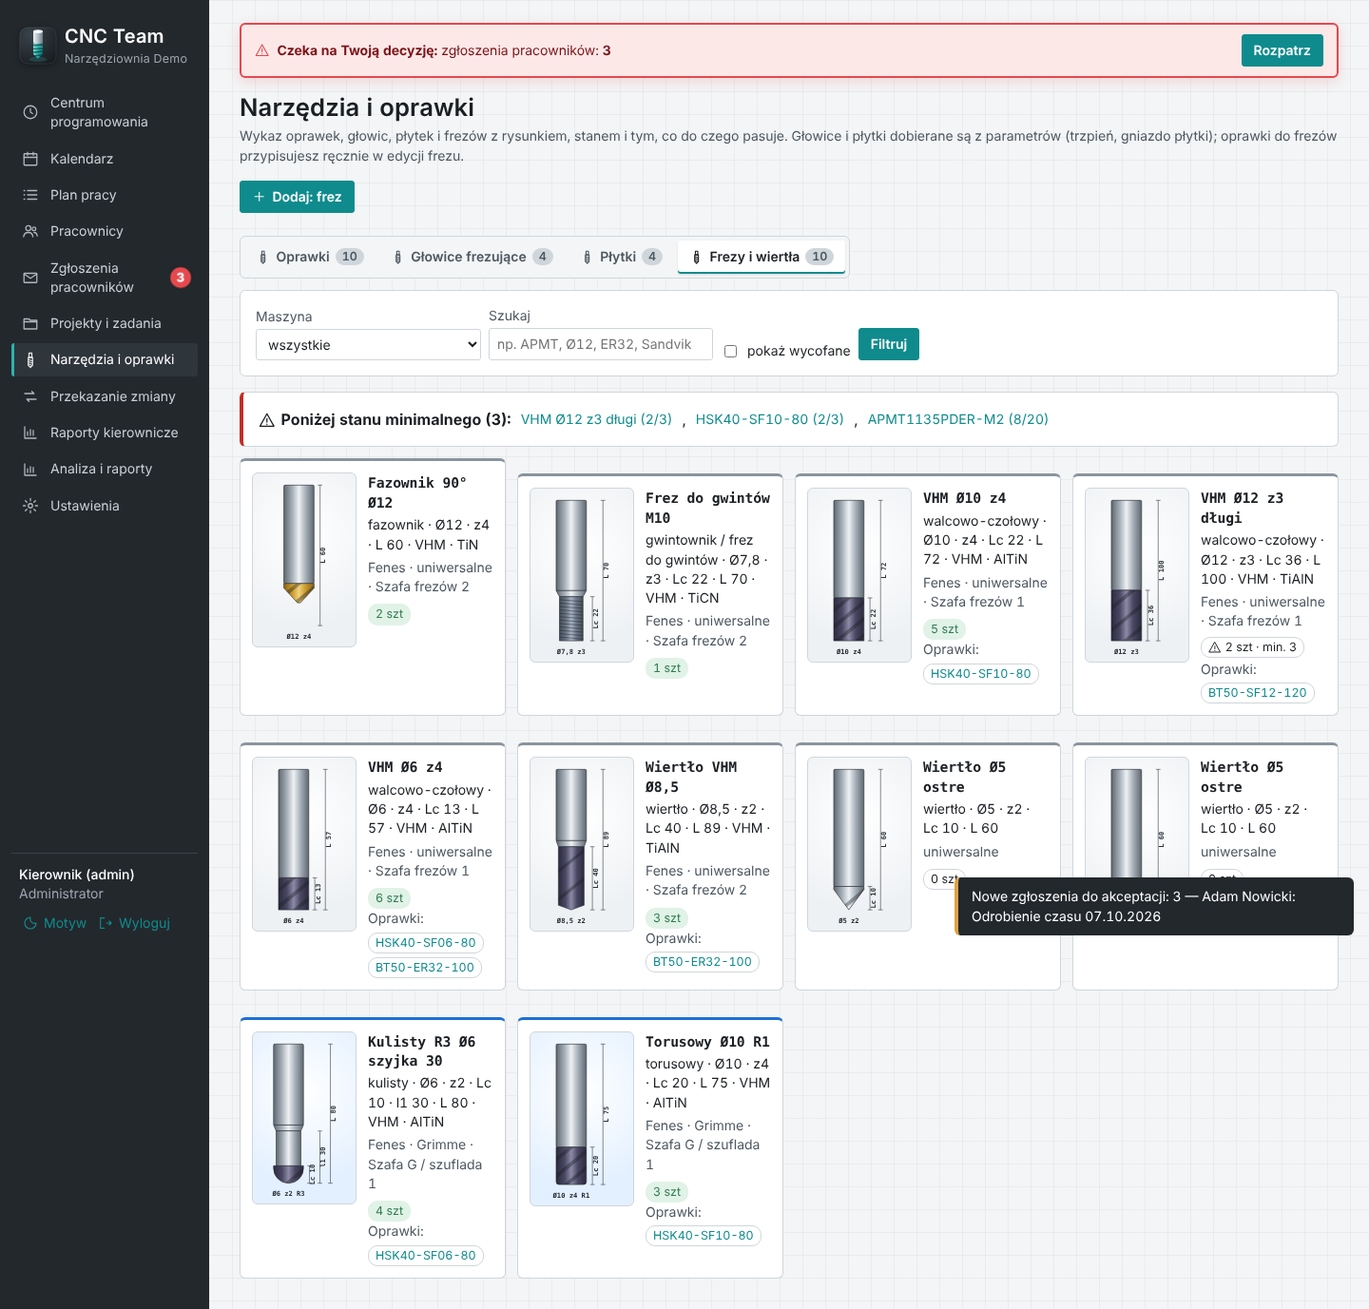
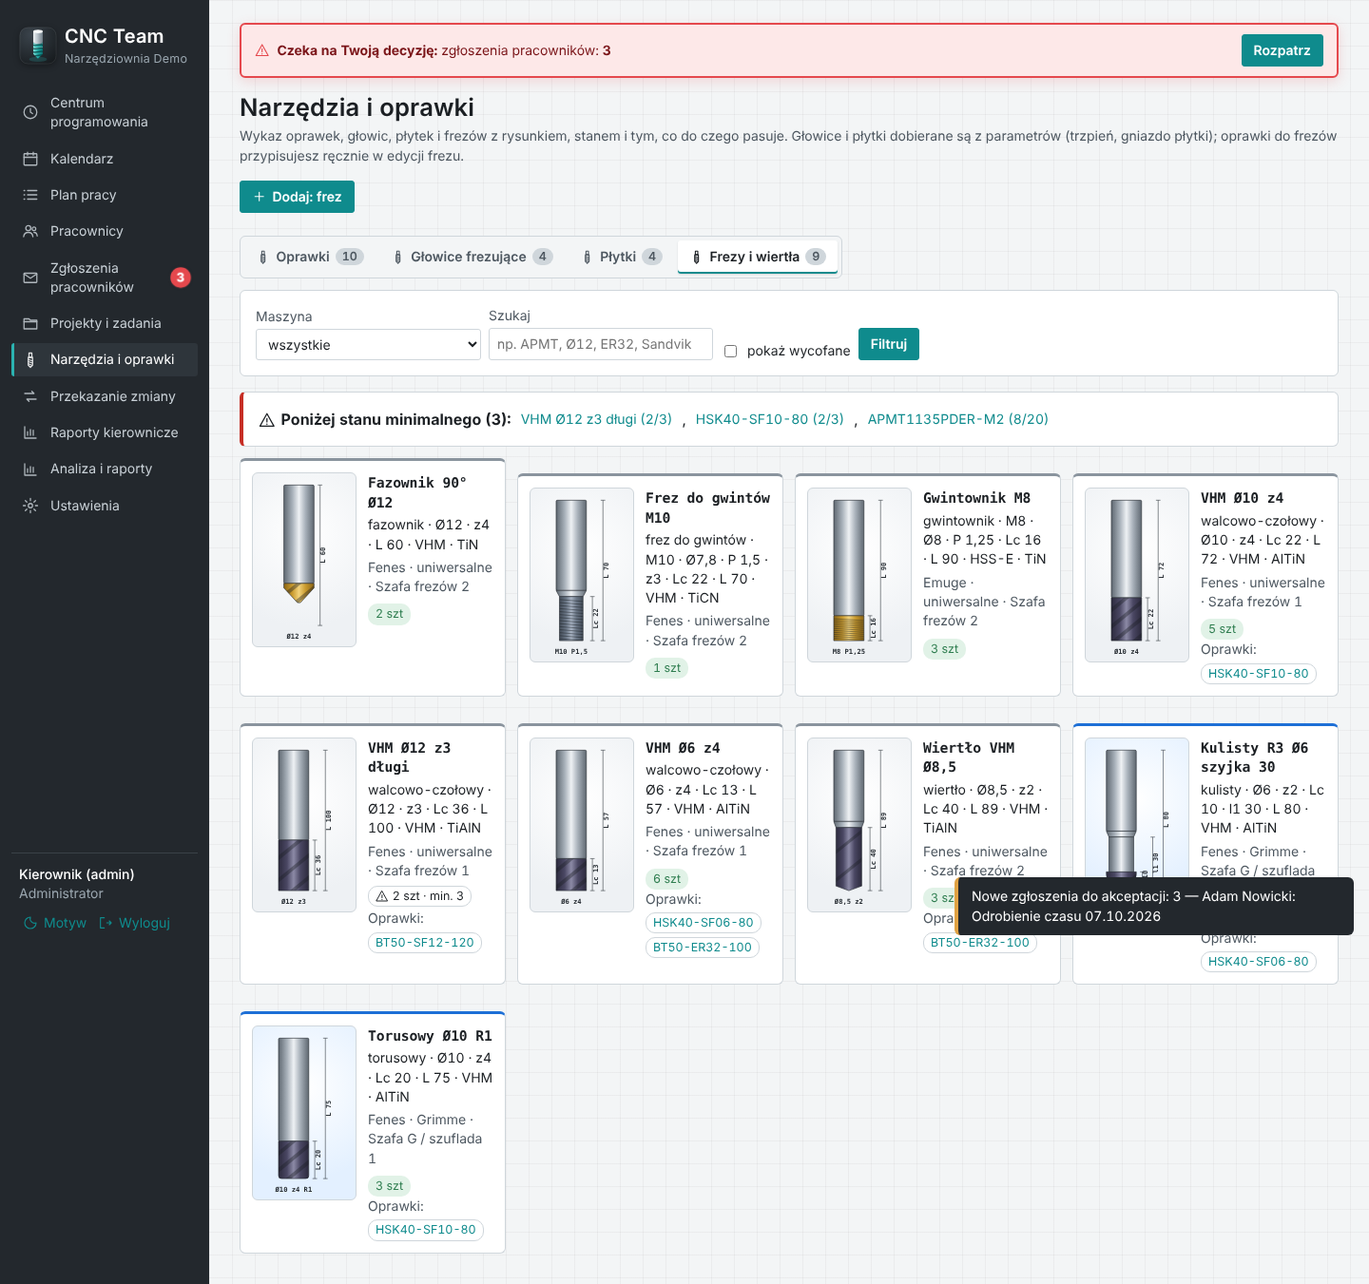
Gwintowniki bez liczby ostrzy, skok i oznaczenie gwintu; osobny rodzaj: frez do gwintów (0.15.3)
Claude-Session: https://claude.ai/code/session_01Mgo9RDb6yKEqWF3PSmGbbJ

diff --git a/public/views-tools.js b/public/views-tools.js
@@ -10,7 +10,8 @@ const TOOL_TABS = [
 ];
 const TOOL_KIND = Object.fromEntries(TOOL_TABS.map(([k, l, s]) => [k, { label: l, single: s }]));
 const HOLDER_LABEL = { tulejkowa: 'tulejkowa (ER)', weldon: 'Weldon', termo: 'termokurczliwa', hydrauliczna: 'hydrauliczna', trzpieniowa: 'trzpieniowa (do głowic)' };
-const MILL_LABEL = { 'walcowo-czolowy': 'walcowo-czołowy', kulisty: 'kulisty', torusowy: 'torusowy', fazownik: 'fazownik', wiertlo: 'wiertło', gwintownik: 'gwintownik / frez do gwintów' };
+const MILL_LABEL = { 'walcowo-czolowy': 'walcowo-czołowy', kulisty: 'kulisty', torusowy: 'torusowy', fazownik: 'fazownik', wiertlo: 'wiertło', gwintownik: 'gwintownik', 'frez-gwintowy': 'frez do gwintów' };
+const THREADED = (type) => type === 'gwintownik' || type === 'frez-gwintowy';
 const SHAPE_LABEL = { A: 'A — równoległobok 85°', C: 'C — romb 80°', D: 'D — romb 55°', R: 'R — okrągła', S: 'S — kwadrat', T: 'T — trójkąt', V: 'V — romb 35°', W: 'W — trygon 80°', O: 'O — ośmiokąt' };
 
 let toolUid = 0;
@@ -217,8 +218,9 @@ function drawMill(t, { w = 80 } = {}) {
   parts.push(`<clipPath id="${id}c"><path d="${end}"/></clipPath><path d="${end}" fill="url(#${id}k)" stroke="#2a3036" stroke-width=".8"/>`);
   // spirala ostrzy (ukośne pasy) albo zwoje gwintu
   const flutes = [];
-  if (p.type === 'gwintownik') {
-    for (let y = yCut + 4; y < yTip - 2; y += 4.5) flutes.push(`<path d="M${L} ${y} L${R} ${y + 2.5}" stroke="#1b1f23" stroke-width="1" opacity=".55"/>`);
+  if (THREADED(p.type)) {
+    const step = Math.max(2.5, Math.min(8, (Number(p.pitch) || 1.5) * sc));
+    for (let y = yCut + 4; y < yTip - 2; y += step) flutes.push(`<path d="M${L} ${y} L${R} ${y + 2.5}" stroke="#1b1f23" stroke-width="1" opacity=".55"/>`);
   } else {
     const n = Math.max(2, Math.round(p.z || 3)); const step = Math.max(9, wd * 1.1);
     for (let y = yCut - wd; y < yTip + wd; y += step / Math.min(n, 4) * 2) flutes.push(`<path d="M${L - 2} ${y + wd * 0.9} L${R + 2} ${y}" stroke="#1b1f23" stroke-width="${Math.max(1.5, wd * 0.12)}" opacity=".38" stroke-linecap="round"/>`);
@@ -233,10 +235,10 @@ function drawMill(t, { w = 80 } = {}) {
   if (neck) dims.push(dim(68 + (p.Lc ? 14 : 0), yNeck, yTip, `l1 ${mm(p.reach)}`));
   if (p.L) dims.push(dim(68 + (p.Lc ? 14 : 0) + (neck ? 14 : 0), yShank, yTip, `L ${mm(p.L)}`));
   const vw = 80 + (p.Lc ? 14 : 0) + (neck ? 14 : 0) + (p.L ? 14 : 0);
-  return `<svg class="tool-svg" viewBox="0 0 ${vw} 214" width="${Math.round(w * vw / 80)}" role="img" aria-label="${esc(`${MILL_LABEL[p.type] || 'Frez'} Ø${mm(D)}${p.z ? ` z${mm(p.z)}` : ''}${p.Lc ? `, ostrze ${mm(p.Lc)} mm` : ''}${p.L ? `, długość ${mm(p.L)} mm` : ''}`)}">
+  return `<svg class="tool-svg" viewBox="0 0 ${vw} 214" width="${Math.round(w * vw / 80)}" role="img" aria-label="${esc(`${MILL_LABEL[p.type] || 'Frez'}${p.thread ? ` ${p.thread}` : ''}${p.pitch ? ` skok ${mm(p.pitch)}` : ''} Ø${mm(D)}${p.z && p.type !== 'gwintownik' ? ` z${mm(p.z)}` : ''}${p.Lc ? `, ostrze ${mm(p.Lc)} mm` : ''}${p.L ? `, długość ${mm(p.L)} mm` : ''}`)}">
     <defs>${metalDefs(`${id}s`, shankTone)}${metalDefs(`${id}k`, coatTone(p.coating))}</defs>
     ${parts.join('')}${dims.join('')}
-    <text x="40" y="211" text-anchor="middle" class="tool-svg-dim">Ø${esc(mm(D))}${p.z ? ` z${esc(mm(p.z))}` : ''}${p.type === 'torusowy' && p.r ? ` R${esc(mm(p.r))}` : p.type === 'kulisty' ? ` R${esc(mm(D / 2))}` : ''}</text>
+    <text x="40" y="211" text-anchor="middle" class="tool-svg-dim">${THREADED(p.type) ? `${esc(p.thread || `Ø${mm(D)}`)}${p.pitch ? ` P${esc(mm(p.pitch))}` : ''}` : `Ø${esc(mm(D))}`}${p.z && !THREADED(p.type) ? ` z${esc(mm(p.z))}` : ''}${p.type === 'torusowy' && p.r ? ` R${esc(mm(p.r))}` : p.type === 'kulisty' ? ` R${esc(mm(D / 2))}` : ''}</text>
   </svg>`;
 }
 
@@ -260,7 +262,7 @@ function toolFacts(t) {
     add('Kształt', SHAPE_LABEL[p.shape] || p.shape); add('Wielkość', p.size, ' mm'); add('Promień naroża', p.radius, ' mm'); add('Liczba krawędzi', p.edges);
     add('Gatunek', p.grade); add('Pokrycie', p.coating); add('Materiały', p.materials);
   } else {
-    add('Rodzaj', MILL_LABEL[p.type] || p.type); add('Średnica D', p.D, ' mm'); add('Liczba ostrzy z', p.z); add('Chwyt', p.shank != null ? `Ø${mm(p.shank)}` : null, ' mm');
+    add('Rodzaj', MILL_LABEL[p.type] || p.type); add('Średnica D', p.D, ' mm'); add('Gwint', p.thread); add('Skok gwintu P', p.pitch, ' mm'); if (p.type !== 'gwintownik') add('Liczba ostrzy z', p.z); add('Chwyt', p.shank != null ? `Ø${mm(p.shank)}` : null, ' mm');
     add('Długość ostrza Lc', p.Lc, ' mm'); add('Długość użyteczna l1', p.reach, ' mm'); add('Długość całkowita L', p.L, ' mm'); add('Promień naroża', p.r, ' mm'); add('Kąt', p.angle, '°');
     add('Materiał', p.material); add('Pokrycie', p.coating);
   }
@@ -271,7 +273,7 @@ function toolKeyLine(t) {
   if (t.kind === 'oprawka') return [p.interface, HOLDER_LABEL[p.type], p.type === 'trzpieniowa' ? `trzpień Ø${mm(p.arbor)}` : p.clamp_min != null ? `Ø${mm(p.clamp_min)}${p.clamp_max && p.clamp_max !== p.clamp_min ? `–${mm(p.clamp_max)}` : ''}` : null].filter(Boolean).join(' · ');
   if (t.kind === 'glowica') return [`Ø${mm(p.D)}`, `z${mm(p.z)}`, p.insert_code, p.lead && p.lead !== 90 ? `${mm(p.lead)}°` : null].filter(Boolean).join(' · ');
   if (t.kind === 'plytka') return [p.grade, p.coating, p.materials ? `materiały ${p.materials}` : null].filter(Boolean).join(' · ');
-  return [MILL_LABEL[p.type], `Ø${mm(p.D)}`, p.z ? `z${mm(p.z)}` : null, p.Lc ? `Lc ${mm(p.Lc)}` : null, p.reach ? `l1 ${mm(p.reach)}` : null, p.L ? `L ${mm(p.L)}` : null, p.material, p.coating].filter(Boolean).join(' · ');
+  return [MILL_LABEL[p.type], p.thread || null, `Ø${mm(p.D)}`, p.pitch ? `P ${mm(p.pitch)}` : null, p.z && p.type !== 'gwintownik' ? `z${mm(p.z)}` : null, p.Lc ? `Lc ${mm(p.Lc)}` : null, p.reach ? `l1 ${mm(p.reach)}` : null, p.L ? `L ${mm(p.L)}` : null, p.material, p.coating].filter(Boolean).join(' · ');
 }
 function machineShort(id) {
   const m = S.boot.machines.find(x => x.id === id);
@@ -421,8 +423,10 @@ function toolForm(kind, t = null, all = []) {
       txt('grade', 'Gatunek'), txt('coating', 'Pokrycie', { help: 'np. TiAlN, TiN, PVD' }), txt('materials', 'Materiały', { help: 'P / M / K / N / S / H' })];
   } else {
     params = [{ name: 'p_type', label: 'Rodzaj', type: 'select', required: true, value: p.type || '', options: Object.entries(MILL_LABEL) },
-      num('D', 'Średnica D (mm)', { required: true }), num('z', 'Liczba ostrzy z', { required: true }), num('shank', 'Chwyt Ø (mm)', { help: 'puste = jak D' }),
-      num('Lc', 'Długość ostrza Lc (mm)', { required: true, show: v => v.p_type !== 'fazownik', help: 'część skrawająca' }),
+      num('D', 'Średnica D (mm)', { required: true }), num('z', 'Liczba ostrzy z', { required: true, show: v => v.p_type !== 'gwintownik' }), num('shank', 'Chwyt Ø (mm)', { help: 'puste = jak D' }),
+      num('pitch', 'Skok gwintu P (mm)', { required: true, show: v => THREADED(v.p_type), help: 'np. M10 → 1,5; M10x1 → 1' }),
+      txt('thread', 'Oznaczenie gwintu', { show: v => THREADED(v.p_type), help: 'np. M10, M10x1, G1/4, UNC 1/4-20' }),
+      num('Lc', 'Długość ostrza Lc (mm)', { required: true, show: v => v.p_type !== 'fazownik', help: 'część skrawająca; przy gwintowniku — długość gwintu' }),
       num('reach', 'Długość użyteczna l1 (mm)', { show: v => v.p_type !== 'fazownik', help: 'ostrze + szyjka (frez z podciętą szyjką); puste = jak Lc' }),
       num('L', 'Długość całkowita L (mm)', { required: true }),
       num('r', 'Promień naroża r (mm)', { show: v => v.p_type === 'torusowy' }), num('angle', 'Kąt (°)', { show: v => v.p_type === 'fazownik' || v.p_type === 'wiertlo' }),

diff --git a/server/domain/tools.js b/server/domain/tools.js
@@ -8,15 +8,17 @@ const { bad, notFound, audit, reqStr, reqInt, oneOf } = require('../core');
 
 const KINDS = ['oprawka', 'glowica', 'plytka', 'frez'];
 const HOLDER_TYPES = ['tulejkowa', 'weldon', 'termo', 'hydrauliczna', 'trzpieniowa'];
-const MILL_TYPES = ['walcowo-czolowy', 'kulisty', 'torusowy', 'fazownik', 'wiertlo', 'gwintownik'];
+const MILL_TYPES = ['walcowo-czolowy', 'kulisty', 'torusowy', 'fazownik', 'wiertlo', 'gwintownik', 'frez-gwintowy'];
+const THREAD_TYPES = ['gwintownik', 'frez-gwintowy'];
 const SHAPES = ['A', 'C', 'D', 'R', 'S', 'T', 'V', 'W', 'O'];
 
-const num = (v, label, { min = 0, max = 2000, optional = true, int = false } = {}) => {
+const num = (v, label, { min = 0, max = 2000, optional = true, int = false, decimals = 2 } = {}) => {
   if (v === undefined || v === null || v === '') { if (optional) return null; throw bad(`Podaj: ${label}.`); }
   const n = Number(String(v).replace(',', '.'));
   if (!Number.isFinite(n) || n < min || n > max) throw bad(`${label}: wartość ${min}–${max}.`);
   if (int && !Number.isInteger(n)) throw bad(`${label}: liczba całkowita.`);
-  return Math.round(n * 100) / 100;
+  const f = 10 ** decimals;
+  return Math.round(n * f) / f;
 };
 // BT50, HSK40, HSK-A40 → porównywalna postać
 const normIface = (v) => String(v || '').toUpperCase().replace(/[^A-Z0-9]/g, '').replace(/^HSK[A-F](?=\d)/, 'HSK');
@@ -49,7 +51,12 @@ function normParams(kind, p = {}) {
   const r = type === 'torusowy' ? num(p.r, 'Promień naroża r (mm)', { max: 50 }) : null; // kulisty: r = D/2 z definicji
   if (r !== null && r > D / 2) throw bad('Promień naroża nie może być większy niż połowa średnicy.');
   // dane definiujące narzędzie: liczba ostrzy, długość ostrza (części skrawającej) i długość całkowita — obowiązkowe
-  const z = num(p.z, 'Liczba ostrzy z', { min: 1, max: 20, int: true, optional: false });
+  // gwintownik: bez liczby ostrzy; gwintownik i frez do gwintów: skok gwintu obowiązkowy
+  const z = type === 'gwintownik' ? null : num(p.z, 'Liczba ostrzy z', { min: 1, max: 20, int: true, optional: false });
+  const threaded = THREAD_TYPES.includes(type);
+  // skok z 4 miejscami po przecinku — gwinty calowe (np. 13 TPI = 1,9538 mm)
+  const pitch = threaded ? num(p.pitch, 'Skok gwintu P (mm)', { min: 0.1, max: 12, optional: false, decimals: 4 }) : null;
+  const thread = threaded ? txt(p.thread, 'Oznaczenie gwintu (np. M10, M10x1, G1/4)', 30) : null;
   const L = num(p.L, 'Długość całkowita L (mm)', { min: 1, max: 500, optional: false });
   const Lc = num(p.Lc, 'Długość ostrza Lc (mm)', { min: 0.1, max: 300, optional: type === 'fazownik' });
   const reach = type === 'fazownik' ? null : num(p.reach, 'Długość użyteczna l1 (mm)', { min: 0.1, max: 500 });
@@ -57,7 +64,7 @@ function normParams(kind, p = {}) {
   if (reach !== null && reach > L) throw bad('Długość użyteczna nie może być większa niż długość całkowita.');
   if (reach !== null && Lc !== null && reach < Lc) throw bad('Długość użyteczna (z szyjką) nie może być krótsza niż długość ostrza.');
   return {
-    type, D, z, shank: num(p.shank, 'Chwyt Ø (mm)', { min: 1, max: 50 }), Lc, reach, L,
+    type, D, z, pitch, thread, shank: num(p.shank, 'Chwyt Ø (mm)', { min: 1, max: 50 }), Lc, reach, L,
     r, angle: type === 'fazownik' || type === 'wiertlo' ? num(p.angle, 'Kąt (fazownik / wiertło, °)', { min: 30, max: 180 }) : null,
     material: txt(p.material, 'Materiał (VHM, HSS…)', 20), coating: txt(p.coating, 'Pokrycie', 30),
   };

diff --git a/test/tools.test.js b/test/tools.test.js
@@ -132,6 +132,31 @@ test('narzędzia: ręczne przypisanie frezu do oprawek (w obie strony, w histori
   throwsStatus(assert, () => Tools.saveTool(w.db, w.admin, { holder_ids: [w.ids.er32] }, w.ids.head63), 400, /tylko do frezów/);
 });
 
+test('narzędzia: gwintownik bez liczby ostrzy, ze skokiem gwintu; frez do gwintów — ostrza i skok', () => {
+  const w = world();
+  const save = (params) => Tools.saveTool(w.db, w.admin, { kind: 'frez', name: 'G', params: { D: 10, Lc: 20, L: 90, ...params } }).id;
+  const pr = (id) => JSON.parse(w.db.get('SELECT params FROM tools WHERE id=?', id).params);
+  throwsStatus(assert, () => save({ type: 'gwintownik' }), 400, /Skok gwintu/);
+  throwsStatus(assert, () => save({ type: 'gwintownik', pitch: 0 }), 400, /Skok gwintu/);
+  const tap = save({ type: 'gwintownik', pitch: '1,5', thread: 'M10', z: 4 });
+  assert.equal(pr(tap).pitch, 1.5); assert.equal(pr(tap).thread, 'M10');
+  assert.equal(pr(tap).z, null, 'liczba ostrzy nie jest zapisywana przy gwintowniku');
+  throwsStatus(assert, () => save({ type: 'frez-gwintowy', pitch: 1.5 }), 400, /ostrzy/);
+  throwsStatus(assert, () => save({ type: 'frez-gwintowy', z: 3 }), 400, /Skok gwintu/);
+  const tm = save({ type: 'frez-gwintowy', z: 3, pitch: 1.5, thread: 'M10' });
+  assert.deepEqual([pr(tm).z, pr(tm).pitch], [3, 1.5]);
+  assert.equal(pr(save({ type: 'gwintownik', pitch: 1.95380 })).pitch, 1.9538, 'skok calowy z 4 miejscami');
+  // migracja 014: dawny „gwintownik / frez do gwintów” z liczbą ostrzy → frez do gwintów; gwintownik bez ostrzy bez zmian
+  const now = new Date().toISOString();
+  const ins = (params) => Number(w.db.run(`INSERT INTO tools(kind,name,params,created_at,updated_at) VALUES ('frez','dawny',?,?,?)`, JSON.stringify(params), now, now).lastInsertRowid);
+  const oldMill = ins({ type: 'gwintownik', D: 7.8, z: 3 }), oldTap = ins({ type: 'gwintownik', D: 8, z: null });
+  w.db.exec(require('fs').readFileSync(require('path').join(__dirname, '../server/migrations/014_thread_mills.sql'), 'utf8'));
+  assert.equal(pr(oldMill).type, 'frez-gwintowy'); assert.equal(pr(oldTap).type, 'gwintownik');
+  // inne frezy nie mają skoku ani oznaczenia gwintu
+  const em = save({ type: 'walcowo-czolowy', z: 4, pitch: 1.5, thread: 'M10' });
+  assert.equal(pr(em).pitch, null); assert.equal(pr(em).thread, null);
+});
+
 test('narzędzia: przyjęcie / wydanie z powodem w historii, stan nie ujemny, wycofanie wymaga powodu', () => {
   const w = world();
   throwsStatus(assert, () => Tools.adjustStock(w.db, w.admin, w.ids.apmt11, { delta: 10 }), 400, /Powód/);

diff --git a/scripts/seed-lib.js b/scripts/seed-lib.js
@@ -275,7 +275,8 @@ function seedTools(db, admin) {
   add('frez', 'Torusowy Ø10 R1', G, { type: 'torusowy', D: 10, z: 4, shank: 10, Lc: 20, L: 75, r: 1, material: 'VHM', coating: 'AlTiN' }, { qty: 3, min_qty: 2, manufacturer: 'Fenes', location: 'Szafa G / szuflada 1' });
   add('frez', 'Fazownik 90° Ø12', null, { type: 'fazownik', D: 12, z: 4, shank: 12, L: 60, angle: 90, material: 'VHM', coating: 'TiN' }, { qty: 2, min_qty: 1, manufacturer: 'Fenes', location: 'Szafa frezów 2' });
   add('frez', 'Wiertło VHM Ø8,5', null, { type: 'wiertlo', D: 8.5, z: 2, shank: 10, Lc: 40, L: 89, angle: 140, material: 'VHM', coating: 'TiAlN' }, { qty: 3, min_qty: 2, manufacturer: 'Fenes', location: 'Szafa frezów 2' });
-  add('frez', 'Frez do gwintów M10', null, { type: 'gwintownik', D: 7.8, z: 3, shank: 10, Lc: 22, L: 70, material: 'VHM', coating: 'TiCN' }, { qty: 1, min_qty: 1, manufacturer: 'Fenes', location: 'Szafa frezów 2' });
+  add('frez', 'Gwintownik M8', null, { type: 'gwintownik', D: 8, pitch: 1.25, thread: 'M8', shank: 8, Lc: 16, L: 90, material: 'HSS-E', coating: 'TiN' }, { qty: 3, min_qty: 2, manufacturer: 'Emuge', location: 'Szafa frezów 2' });
+  add('frez', 'Frez do gwintów M10', null, { type: 'frez-gwintowy', D: 7.8, z: 3, pitch: 1.5, thread: 'M10', shank: 10, Lc: 22, L: 70, material: 'VHM', coating: 'TiCN' }, { qty: 1, min_qty: 1, manufacturer: 'Fenes', location: 'Szafa frezów 2' });
   // oprawki do frezów — przypisane ręcznie (jak w zespole)
   const id = (name) => db.get('SELECT id FROM tools WHERE name=?', name).id;
   const link = (mill, holders) => Tools.saveTool(db, admin, { holder_ids: holders.map(id) }, id(mill));

diff --git a/public/sw.js b/public/sw.js
@@ -2,7 +2,7 @@
 // Zasada prywatności: w pamięci telefonu przechowywany jest WYŁĄCZNIE szkielet aplikacji (HTML/CSS/JS/ikony).
 // Odpowiedzi API (/api/*) — dane osobowe, absencje, rozliczenia — nigdy nie są buforowane.
 'use strict';
-const VERSION = 'cnc-team-shell-v26';
+const VERSION = 'cnc-team-shell-v27';
 const SHELL = [
   '/', '/index.html', '/tokens.css', '/app.css', '/icons.js', '/brand.js', '/charts.js', '/ui.js', '/app.js', '/views-people.js', '/views-projects.js',
   '/views-reports.js', '/views-requests.js', '/views-analytics.js', '/views-bundles.js', '/views-tools.js', '/views-plan.js', '/pwa.js', '/manifest.webmanifest', '/favicon.svg', '/icons/icon-192.png', '/icons/icon-512.png',

diff --git a/scripts/screenshots-tools.py b/scripts/screenshots-tools.py
@@ -1,4 +1,4 @@
-"""Zrzuty: Narzędzia i oprawki (rundy 18–19). Użycie: python scripts/screenshots-tools.py http://127.0.0.1:3000 docs/screenshots — kod 1 przy błędach."""
+"""Zrzuty: Narzędzia i oprawki (rundy 18–21). Użycie: python scripts/screenshots-tools.py http://127.0.0.1:3000 docs/screenshots — kod 1 przy błędach."""
 import sys
 from playwright.sync_api import sync_playwright
 base, out = sys.argv[1], sys.argv[2]
@@ -36,6 +36,14 @@ with sync_playwright() as p:
     pg.locator("dialog[open] [data-f=holder_ids]").scroll_into_view_if_needed(); pg.wait_for_timeout(200); shot(pg, "120-narzedzia-frez-oprawki", full=False)
     if pg.locator("dialog[open] input[name=holder_ids]").count() < 5: errors.append("brak listy oprawek w formularzu frezu")
     if pg.locator("dialog[open] input[name=holder_ids]:checked").count() != 1: errors.append("zaznaczone przypisanie nie wczytane")
+    pg.goto(base + "/#/narzedzia?rodzaj=frez&szukaj=gwint"); pg.reload(); pg.wait_for_selector(".tl-card"); pg.wait_for_timeout(400); shot(pg, "121-narzedzia-gwintowniki", full=False)
+    pg.click("#addTool"); pg.wait_for_selector("dialog[open]")
+    pg.fill("dialog[open] input[name=name]", "Gwintownik M12"); pg.select_option("dialog[open] select[name=p_type]", "gwintownik"); pg.wait_for_timeout(150)
+    if pg.locator("dialog[open] [data-f=p_z]").is_visible(): errors.append("gwintownik: pole liczby ostrzy widoczne")
+    pg.fill("dialog[open] input[name=p_D]", "12"); pg.fill("dialog[open] input[name=p_pitch]", "1.75"); pg.fill("dialog[open] input[name=p_thread]", "M12"); pg.fill("dialog[open] input[name=p_Lc]", "20"); pg.fill("dialog[open] input[name=p_L]", "100")
+    pg.dispatch_event("dialog[open] form", "change"); pg.wait_for_timeout(200); shot(pg, "122-narzedzia-gwintownik-formularz", full=False)
+    pg.click("dialog[open] button[type=submit]"); pg.wait_for_timeout(800)
+    if pg.locator("dialog[open]").count(): errors.append("gwintownik nie zapisany: " + pg.inner_text("dialog[open] .form-error"))
     ctx.close()
     ctx, pg = mk(b, True); login(pg, "adam")
     shot(pg, "116-narzedzia-programista-telefon", "#/narzedzia?rodzaj=frez", full=False)

diff --git a/docs/DATA_MODEL.md b/docs/DATA_MODEL.md
@@ -70,7 +70,7 @@ Saldo wyjścia = minuty − Σ przypisań z **zatwierdzonych** odrabiań. Przypi
 |---|---|
 | `tools` | Pozycja wykazu: rodzaj (`oprawka`, `glowica`, `plytka`, `frez`), oznaczenie, numer własny, producent, nr katalogowy, maszyna (lub uniwersalne), parametry rodzaju (JSON), stan, stan minimalny, lokalizacja, uwagi, aktywna |
 
-Parametry: oprawka — interfejs (zgodny z `machines.tool_holder`), rodzaj (tulejkowa, Weldon, termo, hydrauliczna, trzpieniowa), zakres zacisku albo trzpień, tulejka, wysięg, maks. obroty; głowica — D, z, gniazdo płytki, kąt przystawienia, maks. ap, wysokość H, trzpień lub chwyt; płytka — kształt ISO, wielkość, promień, krawędzie, gatunek, pokrycie, materiały; frez — rodzaj, D, **z, długość ostrza Lc, długość całkowita L (obowiązkowe; Lc nie dla fazownika)**, długość użyteczna z szyjką l1, chwyt, promień (torusowy), kąt (fazownik / wiertło), materiał, pokrycie. Dopasowania głowica ↔ oprawka / płytka nie są zapisywane — liczone przy odczycie. Frezy ↔ oprawki — `tool_links` (migracja 013): przypisanie ręczne przez kierownika (frez, oprawka). Zmiany stanu, edycje, wycofanie i przywrócenie — w historii (`audit_log`, encja `tool`) z powodem.
+Parametry: oprawka — interfejs (zgodny z `machines.tool_holder`), rodzaj (tulejkowa, Weldon, termo, hydrauliczna, trzpieniowa), zakres zacisku albo trzpień, tulejka, wysięg, maks. obroty; głowica — D, z, gniazdo płytki, kąt przystawienia, maks. ap, wysokość H, trzpień lub chwyt; płytka — kształt ISO, wielkość, promień, krawędzie, gatunek, pokrycie, materiały; frez — rodzaj, D, **z, długość ostrza Lc, długość całkowita L (obowiązkowe; Lc nie dla fazownika)**, długość użyteczna z szyjką l1, przy gwintowniku (bez z) i frezie do gwintów — skok gwintu P i oznaczenie gwintu, chwyt, promień (torusowy), kąt (fazownik / wiertło), materiał, pokrycie. Dopasowania głowica ↔ oprawka / płytka nie są zapisywane — liczone przy odczycie. Frezy ↔ oprawki — `tool_links` (migracja 013): przypisanie ręczne przez kierownika (frez, oprawka). Zmiany stanu, edycje, wycofanie i przywrócenie — w historii (`audit_log`, encja `tool`) z powodem.
 
 ## Historia i integralność
 

diff --git a/docs/TESTS.md b/docs/TESTS.md
@@ -79,6 +79,9 @@ Zrzuty: `docs/screenshots/50…66` (kierownik, pracownik na komputerze i telefon
 ### Runda 20 — frezy przypisywane do oprawek ręcznie (13.10.2026)
 **65 / 65 zaliczonych.** Na prośbę kierownika usunięte automatyczne dopasowanie frez ↔ oprawka (po średnicy chwytu); kierownik zaznacza oprawki w edycji frezu (tabela `tool_links`, migracja 013). Test: przypisanie widoczne w obie strony i zapisane w historii; tylko oprawki z wykazu i tylko do frezów; edycja bez listy nie zmienia przypisań; przypisanie do oprawki wycofanej zostaje (wraca po przywróceniu), nowej wycofanej nie można dodać; programista nie widzi numerów wycofanych oprawek. Głowice ↔ oprawki i płytki — nadal z parametrów. Przegląd niezależny: 6 uwag, 5 poprawionych; świadomie bez blokady „frez Hartforda w oprawce Grimme” — przypisanie należy do zespołu. Zrzuty `113`, `120`.
 
+### Runda 21 — gwintowniki i frezy do gwintów (13.10.2026)
+**66 / 66 zaliczonych.** Uwaga kierownika: przy gwintowniku nie podaje się liczby ostrzy, potrzebny skok gwintu. Rozdzielone rodzaje: gwintownik (bez z) i frez do gwintów (z obowiązkowe); oba — skok gwintu P obowiązkowy (4 miejsca po przecinku dla gwintów calowych) i oznaczenie gwintu (np. M10x1). Migracja 014 przenosi dawne „gwintowniki” z liczbą ostrzy do frezów do gwintów. Rysunek: zwoje co skok, podpis „M8 P1,25”. Przegląd niezależny: 5 uwag, poprawione. Zrzuty `121`, `122`.
+
 ## Pokrycie wymaganych scenariuszy
 
 | Wymagany scenariusz | Test (plik → nazwa) |
